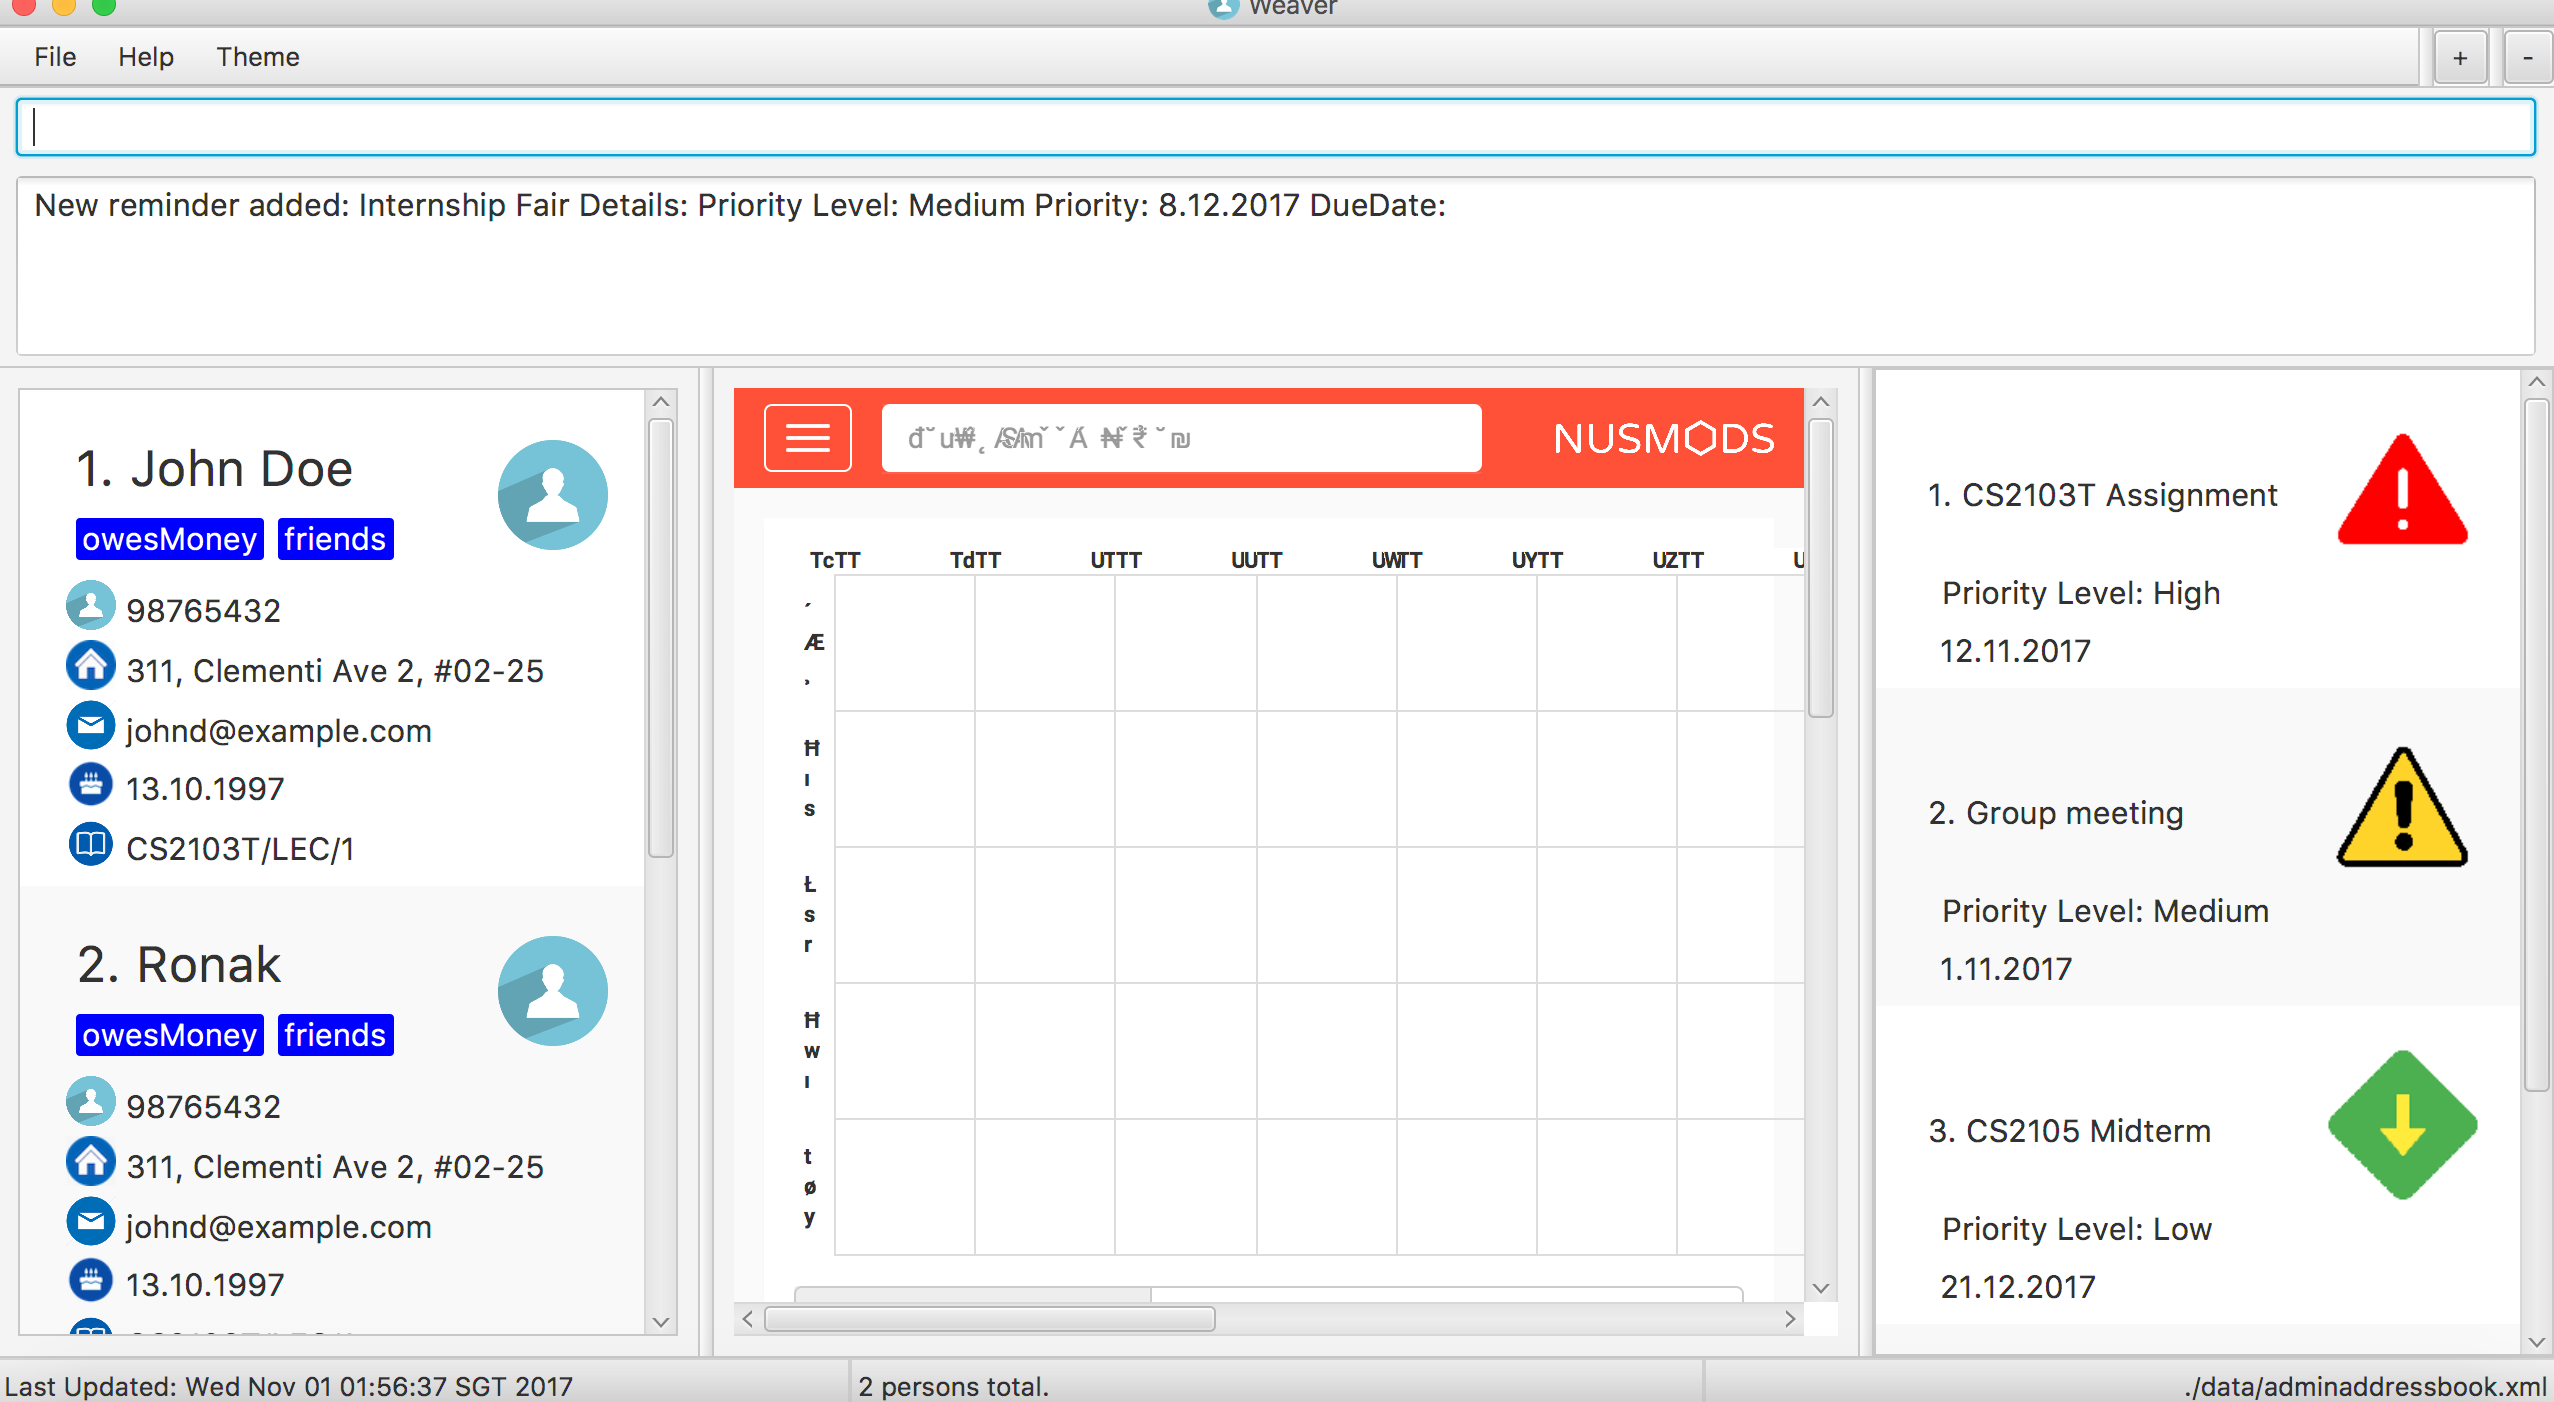
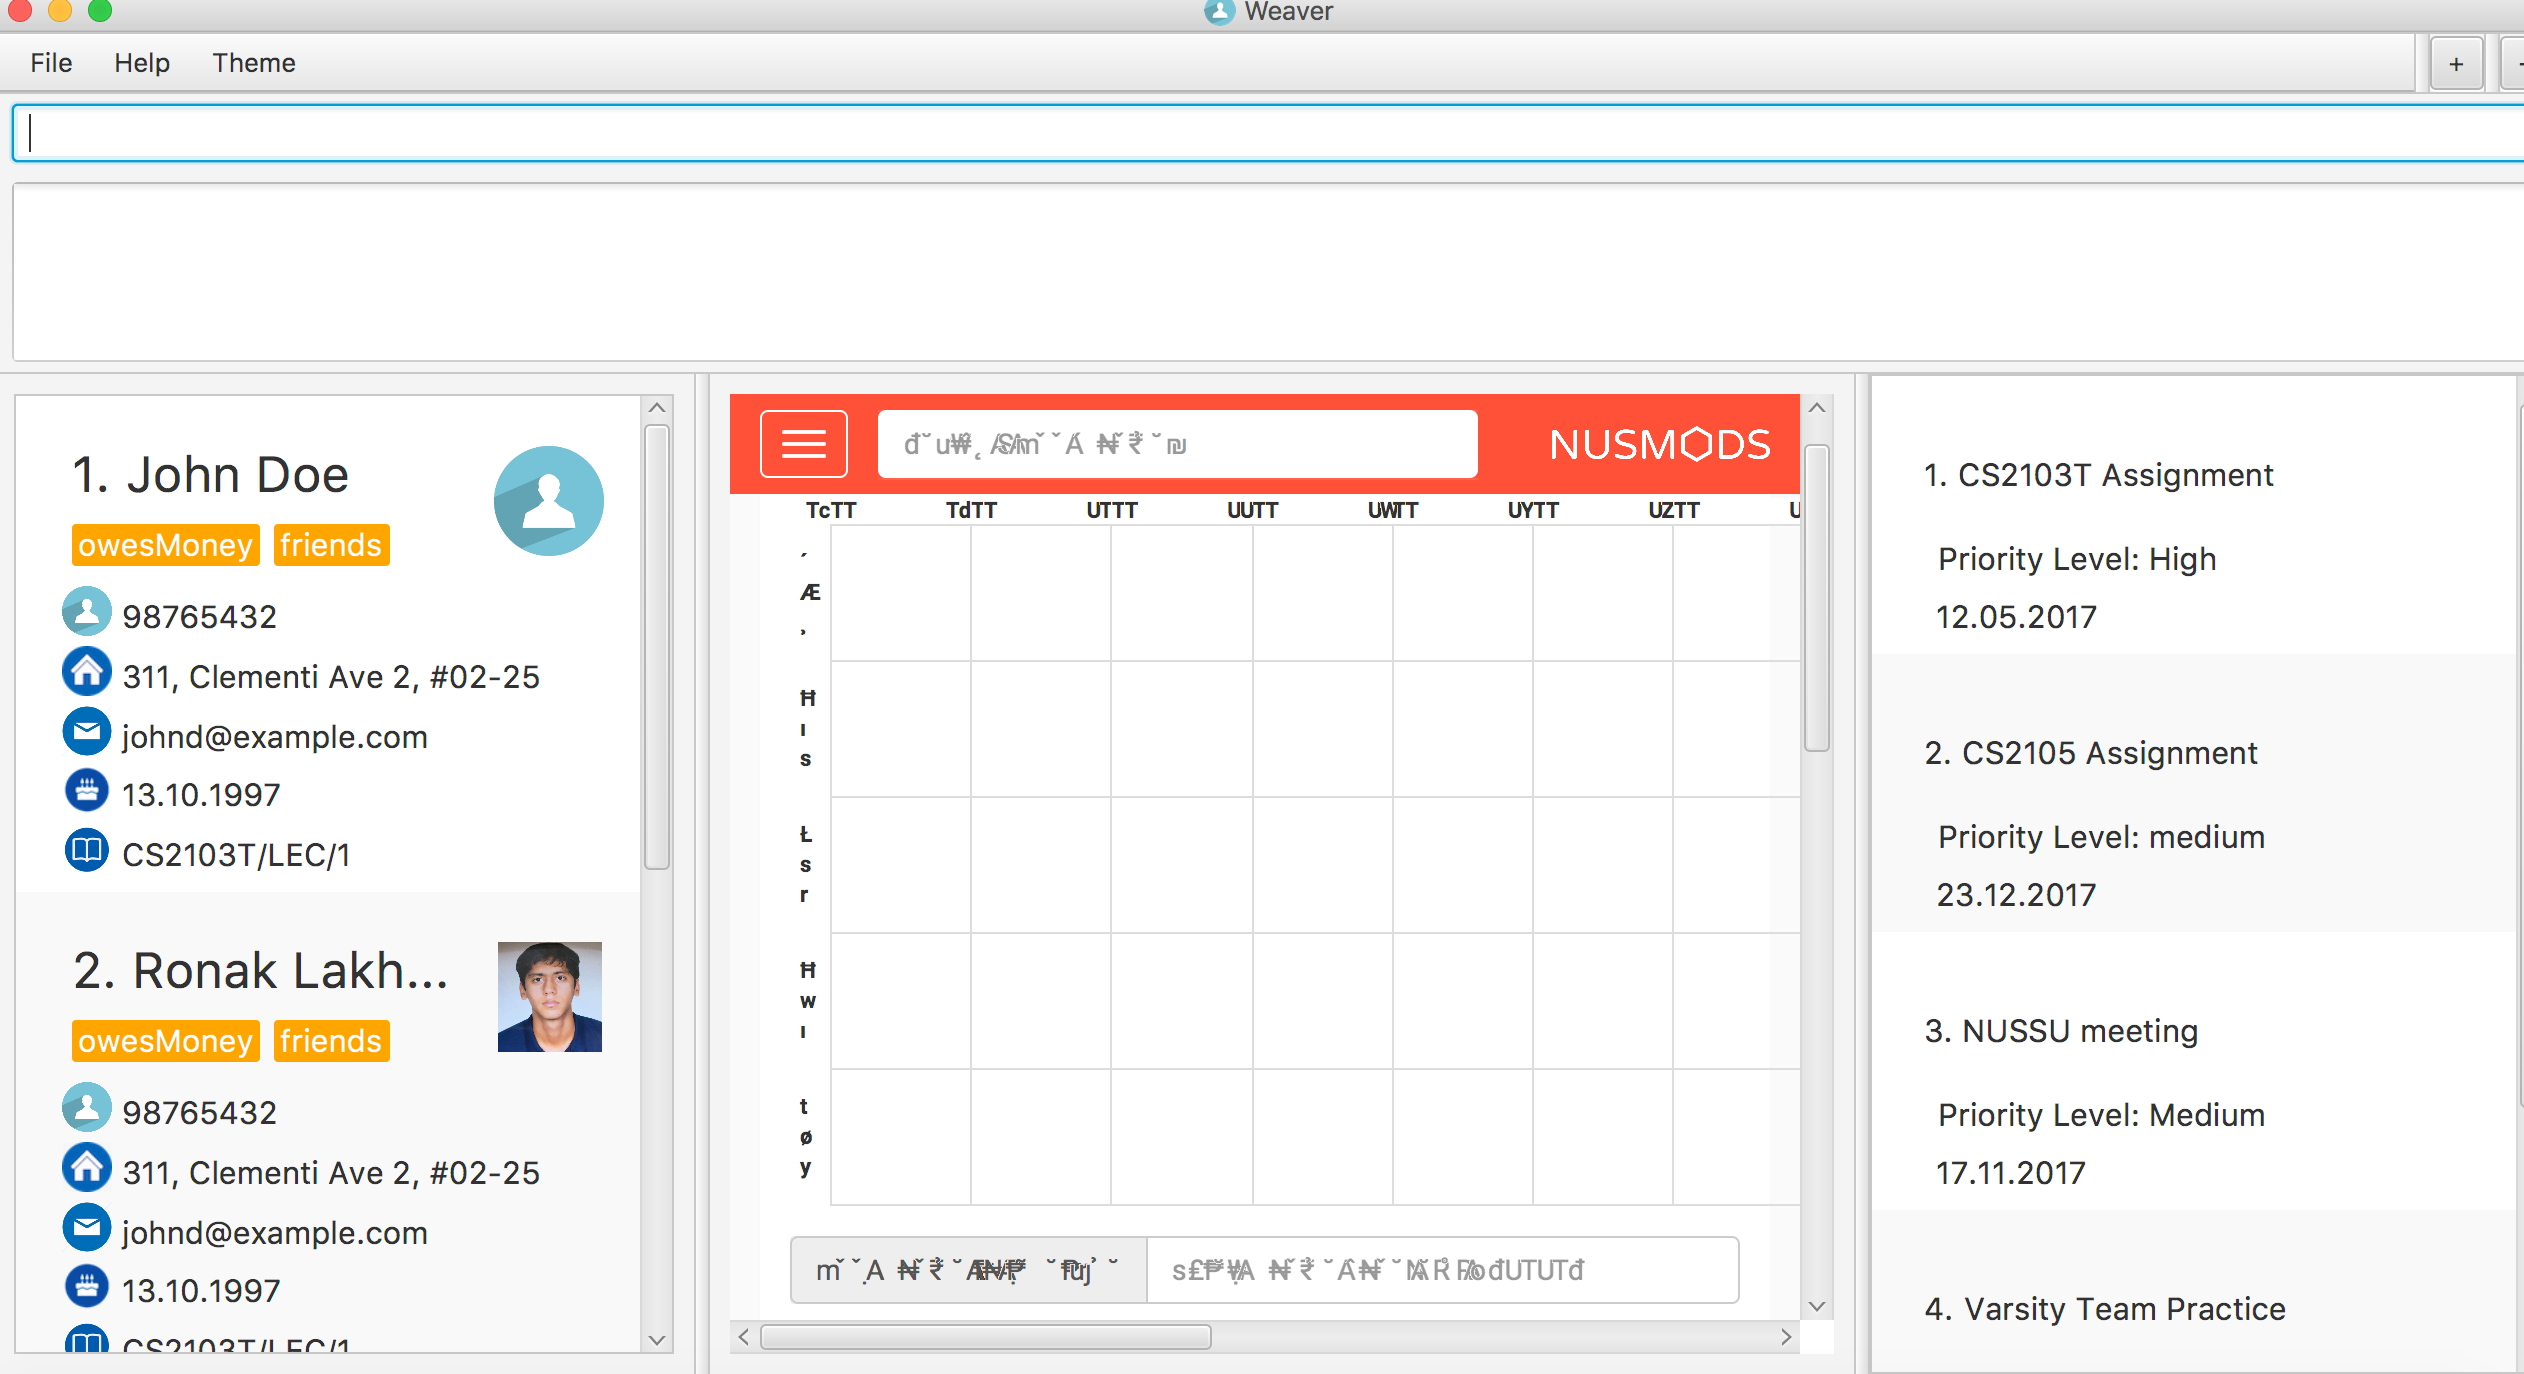
Fixed Bug in reminder card

diff --git a/src/main/java/seedu/address/ui/ReminderCard.java b/src/main/java/seedu/address/ui/ReminderCard.java
@@ -53,8 +53,6 @@ public class ReminderCard extends UiPart<Region> {
     private Label priority;
     @FXML
     private Label date;
-    @FXML
-    private ImageView image;
 
 
 
@@ -77,18 +75,6 @@ public class ReminderCard extends UiPart<Region> {
         about.textProperty().bind(Bindings.convert(reminder.detailsProperty()));
         priority.textProperty().bind(Bindings.convert(reminder.priorityProperty()));
         date.textProperty().bind(Bindings.convert(reminder.dueDateProperty()));
-        String url = "";
-        if (reminder.getPriority().toString().equalsIgnoreCase("Priority Level: High")) {
-            url = "src/main/resources/images/high.png";
-        } else if (reminder.getPriority().toString().equalsIgnoreCase("Priority Level: Medium")) {
-            url = "src/main/resources/images/medium.png";
-        } else {
-            url = "src/main/resources/images/low.png";
-        }
-        File file = new File(url);
-        Image display = new Image(file.toURI().toString(), 100,
-                100, false, false);
-        image.setImage(display);
 
     }
 
